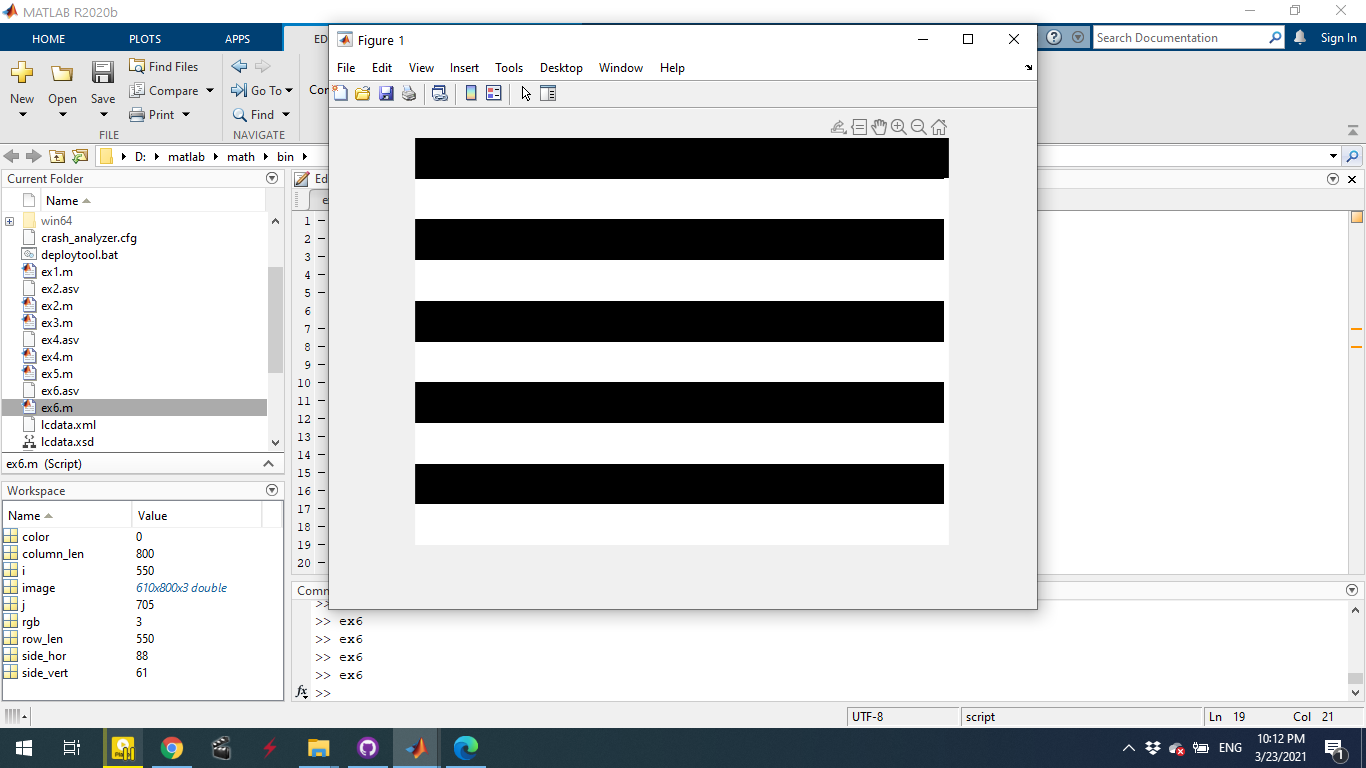
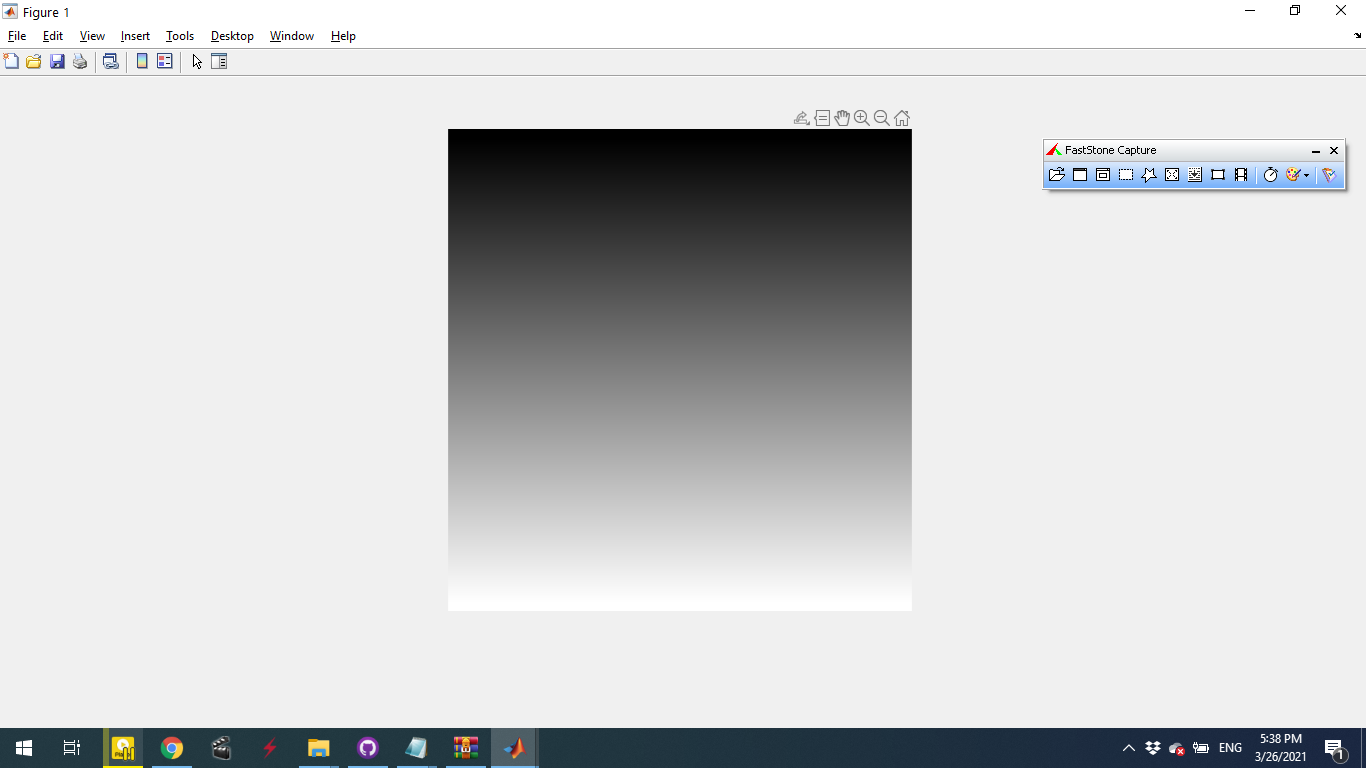
ex 6 update

diff --git a/excersiecs/mohammadhoseinazad/6/ex6.m b/excersiecs/mohammadhoseinazad/6/ex6.m
@@ -1,20 +1,11 @@
-image = ones(550,800,3);%create white image
-[row_len,column_len,rgb] = size(image);
-side_vert = floor(row_len/9);
-side_hor  = floor(column_len/9);
-color = 1;
 
-for(j = 1:side_hor:column_len - side_hor)
-    for(i = 1:side_vert:row_len)
-        if(color == 0)
-            color = 1;
-        else
-            if rem(i,2)==0
-            image(i:side_vert - 1 + i,j:j + side_hor - 1,:) = 0;
-            color = 0;
-            end
-        end
-    end
+clc;
+close all;
+clear;
+
+a=255;
+plate=zeros(a);
+for i = 1:a
+    plate(i:i,1:255)=i/255;
 end
-image = flip(image,1);
-imshow(image);
+imshow(plate);

diff --git a/excersiecs/mohammadhoseinazad/6/README.md b/excersiecs/mohammadhoseinazad/6/README.md
@@ -5,4 +5,18 @@
 
 open the code ex6.m with mathlab press **run** button :rocket: 
 
+<div dir = "rtl">
+یک ماتریس 255 عضوی ایجاد کرده 
+و نسبت به اندازه هرعدد بر 255 به آن عددی اختصاص میدهد
+</div>
+
+```
+a=255;
+plate=zeros(a);
+for i = 1:a
+    plate(i:i,1:255)=i/255;
+end
+imshow(plate);
+```
+
 ![img](https://github.com/semnan-university-ai/image-processing-class/blob/main/excersiecs/mohammadhoseinazad/6/ex6.png)
